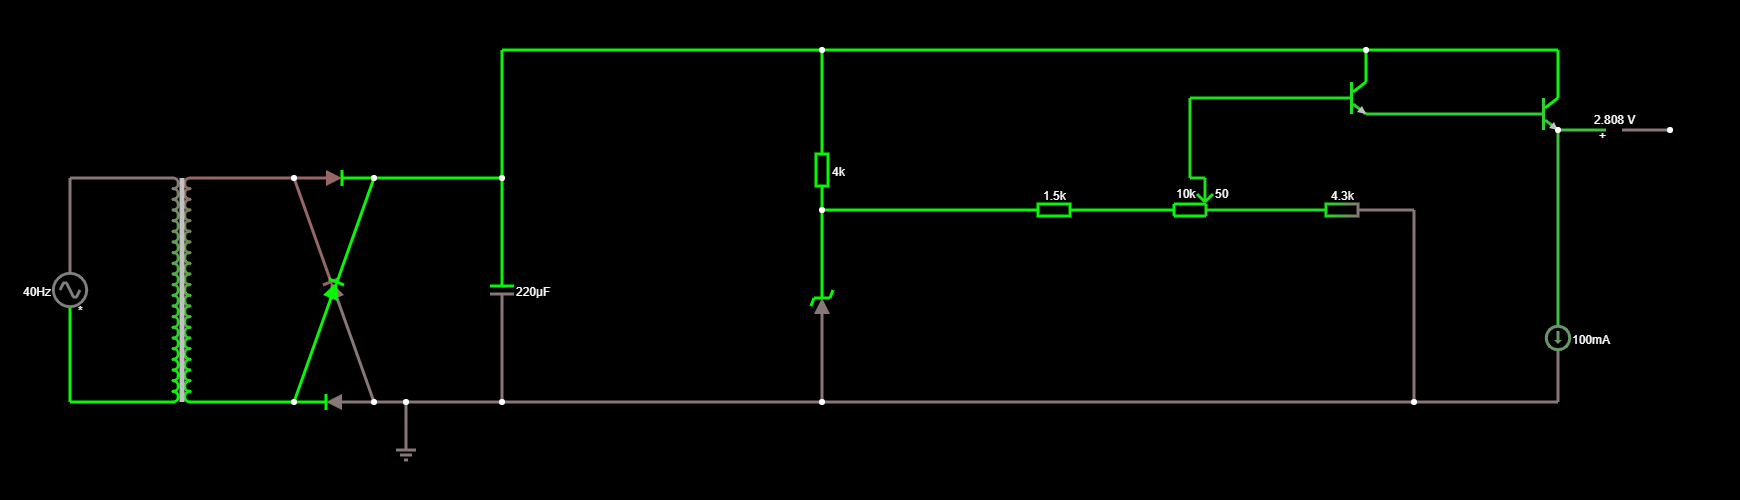
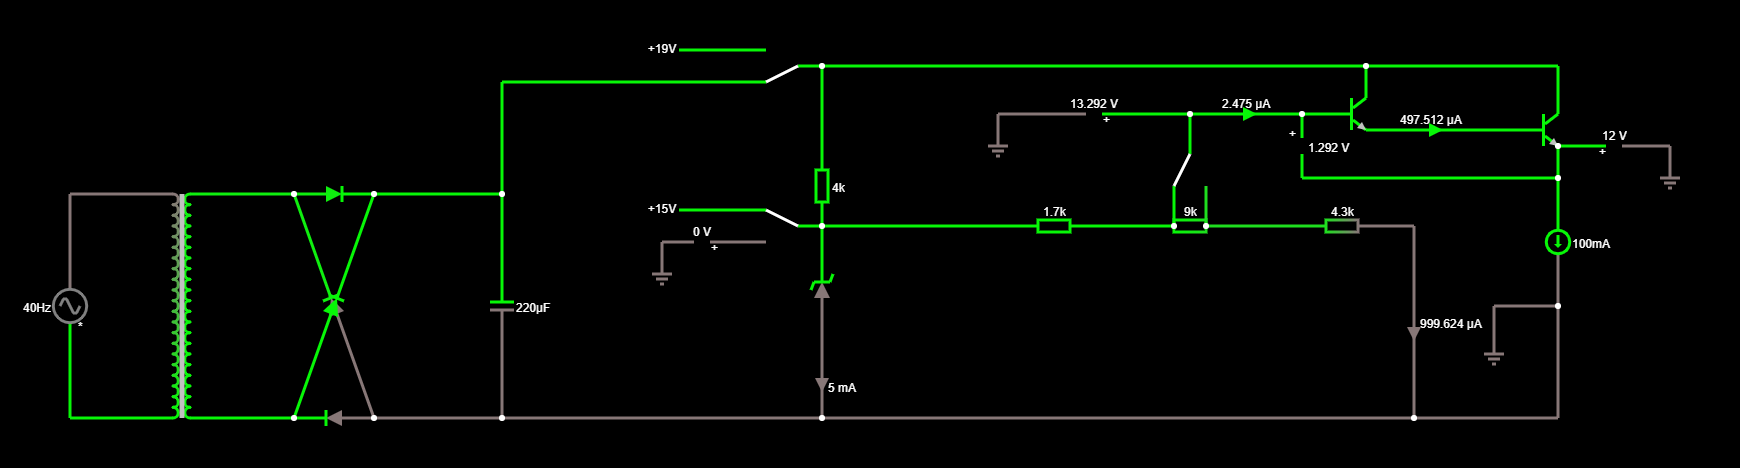
Reescreve o código e atualiza o circuito ideal

diff --git a/script.py b/script.py
@@ -3,14 +3,14 @@ from math import sqrt
 # CONFIGURAÇÃO
 
 # Tensão máxima e mínima da fonte
-V_max = 12.1
-V_min = 2.8
+V_max = 12
+V_min = 3
 
 # Queda de tensão (positiva) entre a base e o emissor do transistor
 V_be = 1.292
 
 # Resistência do resistor depois do potenciômetro
-Rb = 4300
+R_after = 4300
 
 # Corrente passando pela base do transistor (deveria ser exatamente 1ma, mas no falstad dá esse valor aí)
 iB = 2.475e-6
@@ -19,65 +19,78 @@ iB = 2.475e-6
 Vc = 19
 
 # Tensão de quebra do diodo zener
-Vz = 14.9
+Vz = 15
 
-def get_R(V, Rb):
-    a = -iB
-    b = V - iB*Rb
-    c = Rb * (Vz - V)
-    D = sqrt(b*b - 4*a*c)
-    return -(-b + D)/(2*a)
 
-def get_Ra(V, R):
-    i = Vz/(R) + iB
-    return (Vz - V)/i
+# Calcula a corrente passando por um resistor
+#=================================================
+#
+#               +---------+                     
+#      V+-------+    R    +------+0V
+#               +---------+
+#
+#=================================================
+def current(V, R):
+    return V / R
 
-def get_irb(V, Rb, R, x):
-    return V/(Rb + x)
+# Calcula R_before dados Vz, V_medium, R_after e Ib
+# No circuito final, R_before corresponde à soma das resistências do potenciômetro e do resistor anterior a ele
+#=======================================================================
+#
+#                                                   Ib
+#                                                  +-->
+#                                              +--------------
+#                                              |
+#                                              |
+#                  +----------+                |  +---------+
+#        Vz+-------+ R_before +--+ V_medium +--+--+ R_after +---------+0V
+#                  +----------+                   +---------+
+#
+#=======================================================================
+def total_R_before(V_medium, R_after, iB, Vz):
+    total_current = current(V_medium, R_after) + iB
+    R_before = (Vz - V_medium)/total_current
+    return R_before
 
-def get_ira(irb, iB):
-    return irb + iB
+# Calcula R_A dados Vz, V_medium, R_after, Ib e R_before
+# Esse passo efetivamente divide o resistor R_before do circuito anterior em dois resistores: o potenciômetro (R_pot) e o resistor anterior a ele (Ra)
+#=======================================================================
+#
+#                  +----------+
+#        Vz+-------+ R_before +--+
+#                  +----------+
+#
+#   === === === === === === === === === === ===
+#
+#                  +--+  +----+
+#        Vz+-------+Ra+--+Rpot+--+
+#                  +--+  +----+
+#
+#=======================================================================
+def get_resistances(V_min, V_max, R_after, iB, Vz):
+    R_before = total_R_before(V_min, R_after, iB, Vz)
 
-def get_iz(Vc, Vz, Rz, ira):
-    return (Vc - Vz)/Rz - ira
+    a = iB
+    b = (-1)*(Vz + iB*(R_after + R_before))
+    c = (Vz - V_max)*(R_after + R_before)
 
-def get_max_Rz(Vc, Vz, ira):
-    return (Vc - Vz)/(ira)
+    delta = b*b - 4*a*c
+    
+    resistencia = (-b - sqrt(delta))/(2*a)
+    return resistencia, R_before - resistencia
 
-def get_P_Rz(Vc, Vz, ira):
-    return (Vc - Vz)*(ira)
-
+# Adiciona a queda de tensão nos transistores às tensões desejadas, para compensar essa queda
 V_max += V_be
 V_min += V_be
-R_tot = get_R(V_min, Rb)
-Ra = get_Ra(V_max, R_tot + Rb)
-R = R_tot - Ra
 
-irb_min = get_irb(V_min, Rb, R, 0)
-irb_max = get_irb(V_max, Rb, R, R)
+# Calcula as resistências finais
+Ra, Rpot = get_resistances(V_min, V_max, R_after, iB, Vz)
+print("Potenciômetro:", Rpot)
+print("Resistor à esquerda:", Ra)
 
-ira_min = get_ira(irb_min, iB)
-ira_max = get_ira(irb_max, iB)
+# Calcula a corrente máxima que poderá passar pelo resistor à esquerda do Potenciômetro
+max_current_Ra = current(V_max, Rpot + R_after) + iB
 
-Rz_min = get_max_Rz(Vc, Vz, ira_max)
-Rz_max = get_max_Rz(Vc, Vz, ira_min)
-
-P_Rz_min = get_P_Rz(Vc, Vz, ira_min)
-P_Rz_max = get_P_Rz(Vc, Vz, ira_max)
-
-print('')
-print('Resistência máxima do potenciômetro:', R)
-print('')
-print('Resistência do resistor antes do potenciômetro:', Ra)
-print('')
-print('Corrente mínima passando pelo resistor depois do potenciômetro', irb_min)
-print('Corrente máxima passando pelo resistor depois do potenciômetro:', irb_max)
-print('')
-print('Corrente mínima passando pelo resistor antes do potenciômetro', ira_min)
-print('Corrente máxima passando pelo resistor antes do potenciômetro:', ira_max)
-print('')
-print('Resistência mínima do resistor em cima do diodo zener:', Rz_min)
-print('Resistência máxima do resistor em cima do diodo zener:', Rz_max)
-print('')
-print('Potência mínima do resistor em cima do diodo zener:', P_Rz_min)
-print('Potência máxima do resistor em cima do diodo zener:', P_Rz_max)
+# Com esse valor, calcula a resistência máxima do resistor acima do diodo zener
+R_zener = (Vc - Vz)/max_current_Ra
+print("Resistor acima do zener:", R_zener)

diff --git a/README.md b/README.md
@@ -6,8 +6,8 @@
 ![Circuito](circuito.png)
 
 Valores pré-determinados:
-- Tensão máxima e mínima: 12.1v e 2.9v (uma pequena margem de erro é usada para garantir que as tensões necessárias serão fornecidas)
-- Queda de tensão entre a base do primeiro transistor e o emissor do último: 1.292V (medido no falstad)
+- Tensão máxima e mínima: 12v e 3v
+- Queda de tensão entre a base do primeiro transistor e o emissor do último: 1.292V (medido no falstad, muda levemente para correntes diferentes)
 - Resistência do resistor à direita do potenciômetro: 4k3 (explicação abaixo)
 - Ganho dos transistores: 200 (explicação abaixo)
 - Corrente máxima na base do transistor: 2.475 uA (medido no falstad)
@@ -15,22 +15,22 @@ Valores pré-determinados:
 - Tensão de quebra do diodo zener: 15v (explicação abaixo)
 
 Valores calculados a partir dos definidos acima:
-- Resistência máxima do potenciômetro: calculada em 9733.718289721588
-- Resistência do resistor à esquerda do potenciômetro (entre o mesmo e o diodo zener): calculada em 1575.714758526355
-- Resistência acima do diodo zener: calculada em 4285.349462716911
+- Resistência máxima do potenciômetro: calculada em 8997.001013056068
+- Resistência do resistor à esquerda do potenciômetro (entre o mesmo e o diodo zener): calculada em 1704.4225888350963
+- Resistência acima do diodo zener: calculada em 3991.6219879041864
 
 # Preços dos Componentes
 OBS: Preços atualizados em 20/06/2020
 ## Resistor à direita do potenciômetro
 - 1 resistor 4k3 de 1/4 W (A potência real não passará de 4mW): R$0.08 ([loja](https://www.baudaeletronica.com.br/resistor-4k3-5-1-4w.html))
 ## Resistor à esquerda do potenciômetro
-O valor calculado de 1575.714758526355 será aproximado por um resistor de 1k5 (a diferença na voltagem final é muito pequena)
+O valor calculado de 1704.4225888350963 será aproximado por um resistor de 1k5 (a diferença é usada pra garantir uma margem de erro)
 - 1 resistor 1k5 de 1/4 W (A potência real não passará de 450uW): R$0.08 ([loja](https://www.baudaeletronica.com.br/resistor-1k5-5-1-4w.html))
 ## Potenciômetro
-O valor calculado de 9733.718289721588 será aproximado por um potenciômetro de 10k
+O valor calculado de  8997.001013056068 será aproximado por um potenciômetro de 10k (que não deve ser rotacionado até o gim)
 - 1 Potenciômetro Linear de 10k com potência máxima de 0.2W: R$ 1,46  ([loja](https://www.baudaeletronica.com.br/potenciometro-linear-de-10k-10000.html))
 ## Resistor acima do diodo zener
-O valor calculado de 4285.349462716911 será aproximado por dois resistores de 2k em série
+O valor calculado de 3991.6219879041864 será aproximado por dois resistores de 2k em série
 - 2 resistores 2k de 1/4 W (A potência real não passará de 20mW): R$0.08 cada ([loja](https://www.baudaeletronica.com.br/resistor-2k-5-1-4w.html))
 ## Capacitor
 - 1 capacitor de 220uF e 35V (A tensão real não passará de 25V): R$ 0,38 (([loja](https://www.baudaeletronica.com.br/capacitor-eletrolitico-220uf-35v.html)))
